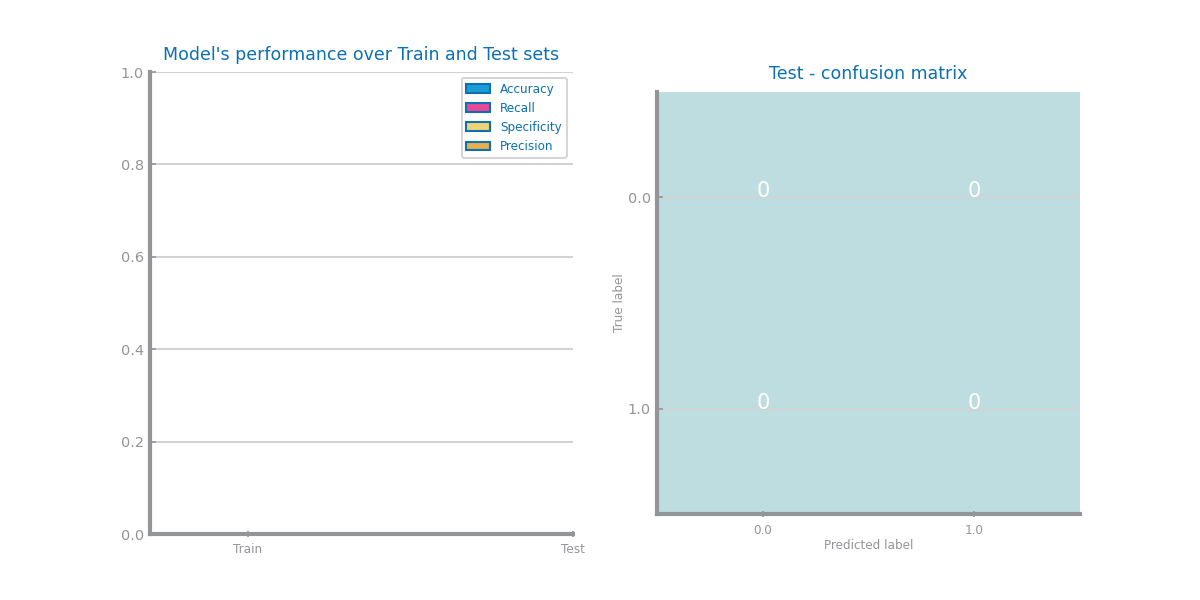
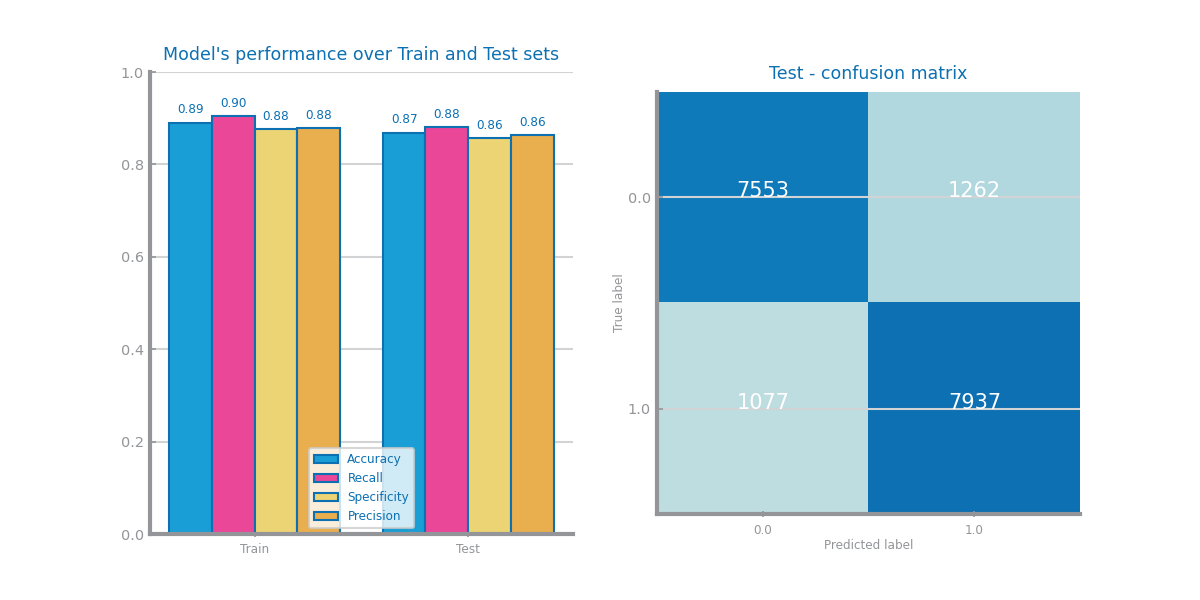
confusion matrix corrigida
estávamos a transformar as labels em strings

diff --git a/Decision_Trees.py b/Decision_Trees.py
@@ -63,6 +63,8 @@ print('Best results achieved with %s criteria, depth=%d and min_impurity_decreas
 
 #
 
+labels_2=labels
+
 from sklearn import tree
 
 labels = [str(value) for value in labels]
@@ -71,12 +73,10 @@ savefig(f'images/DT/{file_tag}_dt_best_tree.png')
 
 #
 
-
-
 prd_trn = best_model.predict(trnX)
 prd_tst = best_model.predict(tstX)
 
-plot_evaluation_results(labels, trnY, prd_trn, tstY, prd_tst)
+plot_evaluation_results(labels_2, trnY, prd_trn, tstY, prd_tst)
 savefig(f'images/DT/{file_tag}_dt_best.png')
 
 #
